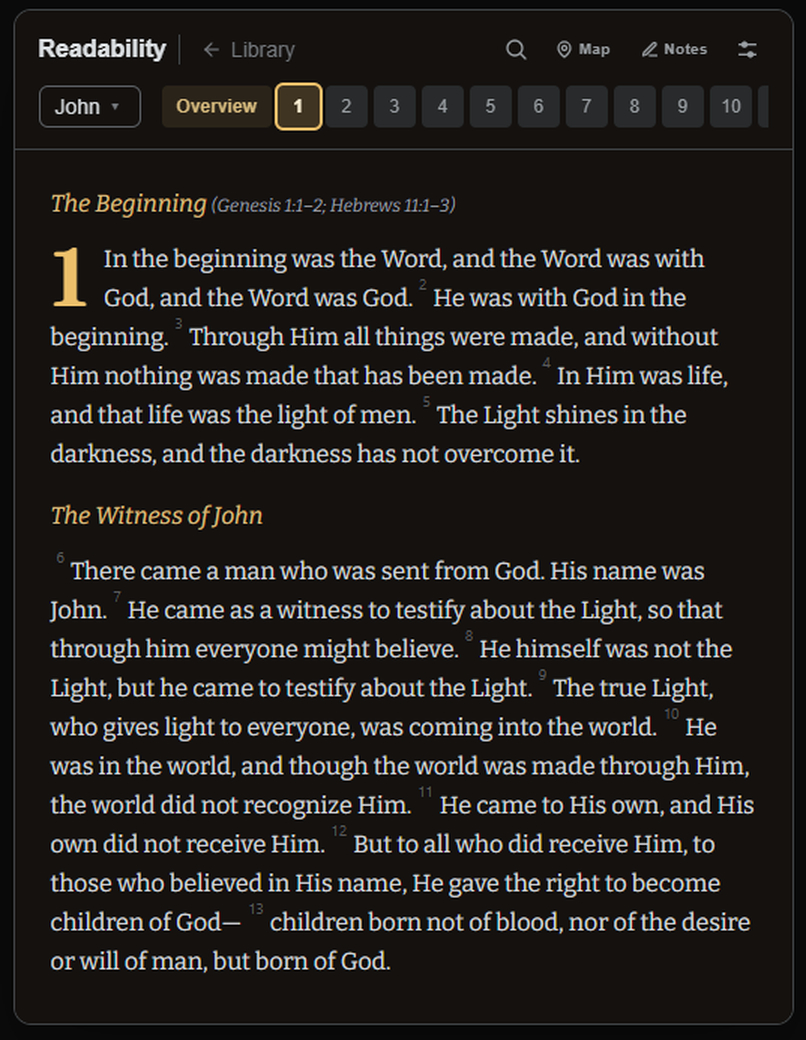
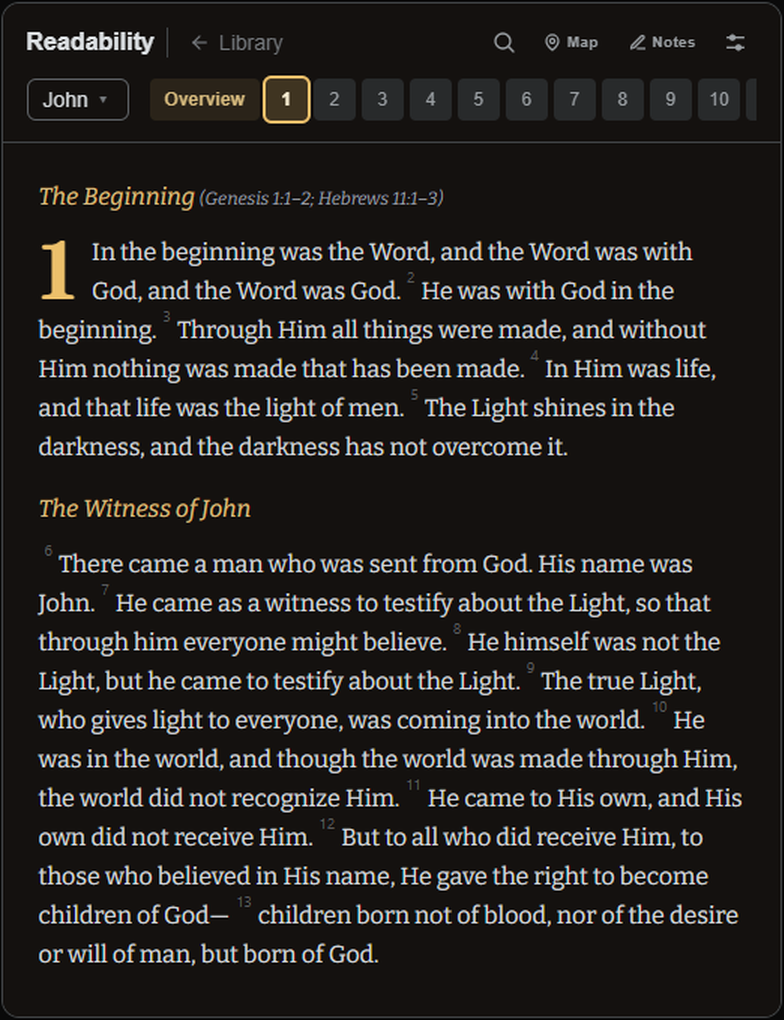
Share card: compact summary layout, John 1 shot cropped to the UI

Changed region(s): [[0.0, 0.0, 1.0, 1.0]]

diff --git a/src/app/layout.tsx b/src/app/layout.tsx
@@ -59,10 +59,10 @@ export const metadata: Metadata = {
     // (Next's file convention), so no explicit images here.
   },
   twitter: {
-    // Large-image card so the reader preview renders big in the unfurl
-    // (Discord/Slack show the portrait shot large and uncropped; note that
-    // Twitter/X itself center-crops a portrait to a landscape strip).
-    card: "summary_large_image",
+    // Small-summary card: text on the left, the portrait John 1 reader shot
+    // as a compact thumbnail on the right (owner-preferred, 2026-08-04).
+    // summary_large_image would render the portrait as a big standalone box.
+    card: "summary",
     title: "A study Bible",
     description:
       "Notes, cross-references, word study and maps. Free and open source, with no ads and no account required.",
